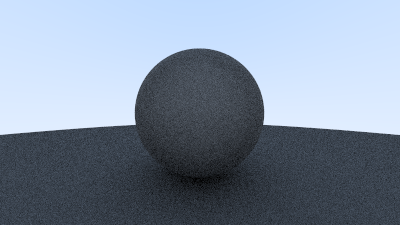
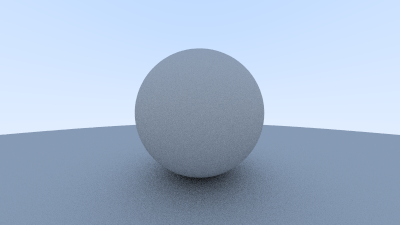
Fix shadow acne (massive speed up 27s to 3s)

diff --git a/ray.go b/ray.go
@@ -22,7 +22,7 @@ func (r Ray) Color(world Hittable, depth int) Vec3 {
 		return Vec3{0, 0, 0}
 	}
 
-	hit, record := world.Hit(r, 0.0, Infinity)
+	hit, record := world.Hit(r, 0.001, Infinity)
 	if hit {
 		target := record.point.Add(record.normal).Add(Vec3RandomInUnitSphere())
 		ray := Ray{record.point, target.Sub(record.point)}
